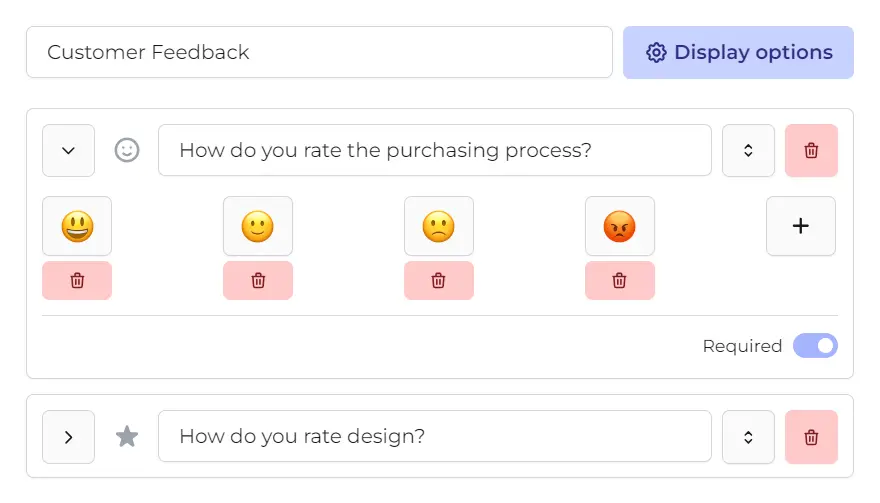
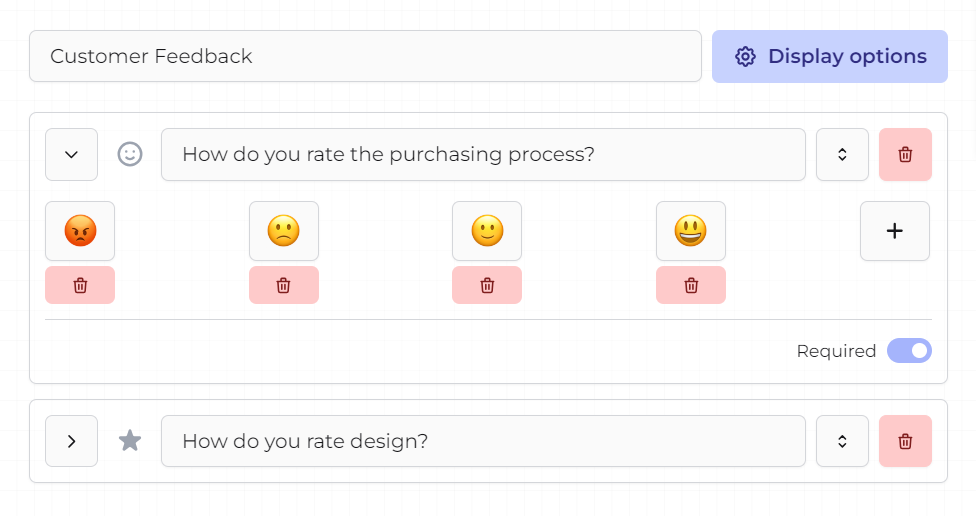
Feature/Account module preparation

diff --git a/src/layout/Navigation/Navigation.tsx b/src/layout/Navigation/Navigation.tsx
@@ -1,17 +1,18 @@
-import { CogIcon, LogoutIcon, MenuIcon } from '@heroicons/react/outline';
+import { LogoutIcon, MenuIcon, UserIcon } from '@heroicons/react/outline';
 import { Fragment, useState } from 'react';
 import { Menu, Transition } from '@headlessui/react';
-import Image from 'next/image';
 import Logo from 'layout/Logo/Logo';
-import ButtonLink from 'shared/components/ButtonLink/ButtonLink';
 import BurgerMenu from 'layout/BurgerMenu/BurgerMenu';
-import Button, { ButtonVariant } from 'shared/components/Button/Button';
-import AvatarIcon from '../../../public/images/avatar.svg';
+import Button, {
+  ButtonSize,
+  ButtonVariant,
+} from 'shared/components/Button/Button';
 import GithubCorner from 'layout/GithubCorner/GithubCorner';
 import { useApplicationContext } from 'features/application/context';
-import IconButtonLink from 'shared/components/IconButtonLink/IconButtonLink';
 import useTranslation from 'next-translate/useTranslation';
 import { signOut } from 'next-auth/react';
+import Avatar from 'shared/components/Avatar/Avatar';
+import ButtonLink from 'shared/components/ButtonLink/ButtonLink';
 
 function Navigation() {
   const { user, loading } = useApplicationContext();
@@ -57,23 +58,7 @@ function Navigation() {
                   <p className="ml-2 mr-4 hidden items-center truncate sm:block">
                     {user.name}
                   </p>
-                  {user.image ? (
-                    <Image
-                      src={user.image}
-                      alt="user photo"
-                      width={32}
-                      height={32}
-                      className="rounded-full"
-                    />
-                  ) : (
-                    <Image
-                      src={AvatarIcon}
-                      alt="user photo"
-                      width={32}
-                      height={32}
-                      className="rounded-full"
-                    />
-                  )}
+                  <Avatar src={user.image} />
                 </Menu.Button>
                 <Transition
                   as={Fragment}
@@ -84,24 +69,27 @@ function Navigation() {
                   leaveFrom="transform opacity-100 scale-100"
                   leaveTo="transform opacity-0 scale-95"
                 >
-                  <Menu.Items className="absolute right-0 mt-2 origin-top-right divide-y divide-zinc-100 rounded-md bg-white shadow-lg ring-1 ring-black ring-opacity-5 focus:outline-none">
-                    <div className="flex flex-col justify-end p-1">
-                      {process.env.NEXT_PUBLIC_REMOVE_ACCOUNT && (
+                  <Menu.Items className="absolute right-0 mt-2 min-w-[160px] origin-top-right divide-y divide-zinc-100 rounded-md bg-white shadow-lg ring-1 ring-black ring-opacity-5 focus:outline-none">
+                    <div className="p-1">
+                      {process.env.NEXT_PUBLIC_PROFILE_SETTINGS && (
                         <Menu.Item>
-                          <IconButtonLink
+                          <ButtonLink
                             variant={ButtonVariant.FLAT}
-                            href={'/settings'}
-                            icon={<CogIcon className="h-5 w-5" />}
+                            sizeType={ButtonSize.FULL}
+                            href={'/account'}
+                            icon={<UserIcon className="h-5 w-5" />}
                           >
-                            {t('navigation.settingsButton')}
-                          </IconButtonLink>
+                            <span className="ms-1">Account</span>
+                          </ButtonLink>
                         </Menu.Item>
                       )}
+
                       <Menu.Item>
                         <Button
                           onClick={logout}
+                          sizeType={ButtonSize.FULL}
                           variant={ButtonVariant.FLAT}
-                          className="w-40 text-red-600 hover:bg-red-100"
+                          className="text-red-600 hover:bg-red-100"
                           icon={<LogoutIcon className="h-5 w-5" />}
                         >
                           {t('navigation.signOutButton')}
@@ -132,28 +120,28 @@ function Navigation() {
           href={'/survey/create'}
           onClick={() => setIsOpen(!isOpen)}
           variant={ButtonVariant.FLAT}
-          className="mb-3 w-[95%] lg:w-auto"
+          className="mb-2 w-[95%] lg:w-auto"
         >
           {t('navigation.createSurveyButton')}
         </ButtonLink>
         <ButtonLink
           href={'/surveys'}
-          className="mb-3 w-[95%] lg:w-auto"
           onClick={() => setIsOpen(!isOpen)}
+          className="mb-2 w-[95%] lg:w-auto"
           variant={ButtonVariant.FLAT}
         >
           {t('navigation.mySurveysButton')}
         </ButtonLink>
-        {process.env.NEXT_PUBLIC_REMOVE_ACCOUNT && (
-          <IconButtonLink
-            className="mb-3 w-[95%] justify-center lg:w-auto"
-            href="/settings"
+        {process.env.NEXT_PUBLIC_PROFILE_SETTINGS && (
+          <Button
+            className="mb-2 w-[95%] justify-center lg:w-auto"
+            href={'/account'}
             onClick={() => setIsOpen(!isOpen)}
             variant={ButtonVariant.FLAT}
-            icon={<CogIcon className="h-5 w-5" />}
+            icon={<UserIcon className="h-5 w-5" />}
           >
-            {t('navigation.settingsButton')}
-          </IconButtonLink>
+            Account
+          </Button>
         )}
         <Button
           onClick={logout}

diff --git a/src/pages/account/index.tsx b/src/pages/account/index.tsx
@@ -1,0 +1,111 @@
+import Head from 'next/head';
+import { TrashIcon } from '@heroicons/react/outline';
+import withAnimation from 'shared/HOC/withAnimation';
+import Header from 'shared/components/Header/Header';
+import withProtectedRoute from 'shared/HOC/withProtectedRoute';
+
+import withFeatureToggles from 'shared/HOC/withFeatureToggles';
+import useTranslation from 'next-translate/useTranslation';
+import { useAccountManager } from 'features/account/accountManager';
+import Button, { ButtonVariant } from 'shared/components/Button/Button';
+import StyledDialog from 'shared/components/StyledDialog/StyledDialog';
+import Avatar from 'shared/components/Avatar/Avatar';
+import { formatDateDistance } from 'shared/utilities/convertTime';
+
+function AccountPage() {
+  const { t } = useTranslation('account');
+
+  const {
+    user,
+    isOpen,
+    openDeleteModal,
+    closeDeleteModal,
+    handleOnAccountDelete,
+    isRemoving,
+  } = useAccountManager();
+
+  return (
+    <>
+      <Head>
+        <title>{t('title')}</title>
+        <meta name="description" content={t('content')} />
+      </Head>
+
+      <Header>Your account</Header>
+
+      {user ? (
+        <div className="mt-4 flex w-full items-center justify-center gap-12 text-left">
+          <Avatar size={160} src={user.image} classNames="border" />
+
+          <div className="mb-4">
+            <h2 className="mb-2 text-2xl">{user?.name}</h2>
+            <p>{user?.email}</p>
+            <p>Account created: {formatDateDistance(user.createdAt)}</p>
+          </div>
+        </div>
+      ) : (
+        <></>
+      )}
+
+      {process.env.NEXT_PUBLIC_REMOVE_ACCOUNT && (
+        <>
+          <div className="flex flex-col items-center justify-center space-y-2">
+            <div className="flex w-full md:ml-2 md:w-auto">
+              <Button
+                variant={ButtonVariant.DANGER}
+                title={t('deleteAccountButtonTitle')}
+                className="ml-2 mt-2 w-full justify-center px-3 sm:mt-0 md:w-auto"
+                onClick={openDeleteModal}
+                icon={<TrashIcon className="h-5 w-5" />}
+              >
+                {t('deleteAccountButton')}
+              </Button>
+            </div>
+          </div>
+          <StyledDialog
+            isOpen={isOpen}
+            onClose={closeDeleteModal}
+            title={t('dialogTitle')}
+            content={
+              <>
+                <div className="mt-2">
+                  <p className="text-sm text-red-500">
+                    {t('dialogContentFirst')}&nbsp;
+                    <span className="font-bold">
+                      {t('dialogContentSecond')}
+                    </span>{' '}
+                    {t('dialogContentThird')}
+                  </p>
+                </div>
+                <div className="mt-6 flex justify-between space-x-3">
+                  <Button
+                    variant={ButtonVariant.SECONDARY}
+                    onClick={closeDeleteModal}
+                    className="uppercase"
+                    disabled={isRemoving}
+                  >
+                    {t('buttonCancle')}
+                  </Button>
+                  <Button
+                    variant={ButtonVariant.DANGER}
+                    onClick={handleOnAccountDelete}
+                    icon={<TrashIcon className="h-5 w-5" />}
+                    className="uppercase"
+                    isLoading={isRemoving}
+                  >
+                    {t('buttonConfirm')}
+                  </Button>
+                </div>
+              </>
+            }
+          />
+        </>
+      )}
+    </>
+  );
+}
+
+export default withFeatureToggles(
+  withProtectedRoute(withAnimation(AccountPage)),
+  [process.env.NEXT_PUBLIC_PROFILE_SETTINGS]
+);

diff --git a/src/features/surveys/components/QuestionBlocks/QuestionBlockWrapper/QuestionBlockWrapper.tsx b/src/features/surveys/components/QuestionBlocks/QuestionBlockWrapper/QuestionBlockWrapper.tsx
@@ -79,7 +79,7 @@ export default function QuestionBlockWrapper({
         <div className="flex w-full items-start gap-2">
           <button
             onClick={onExpand}
-            className="cursor-pointer rounded-md border border-opacity-100 bg-zinc-50 p-[13px]"
+            className="h-[42px] cursor-pointer rounded-md border border-opacity-100 bg-zinc-50 p-[13px]"
           >
             <ChevronDownIcon
               className={clsx(
@@ -99,7 +99,7 @@ export default function QuestionBlockWrapper({
               onInput={handleQuestionChange}
               value={questionTitle}
               error={questionError()}
-              className="mt-0"
+              className="mt-0 h-[42px]"
               maxLength={MAX_QUESTION_LENGTH}
               data-test-id={`question-input-${index}`}
             />
@@ -115,7 +115,7 @@ export default function QuestionBlockWrapper({
             <div className="flex gap-2">
               {isDraggingPossible && (
                 <div
-                  className="cursor-pointer rounded-md border  bg-zinc-50 p-[13px] shadow-sm hover:scale-95"
+                  className="h-[42px] cursor-pointer rounded-md border bg-zinc-50 p-[13px] shadow-sm hover:scale-95"
                   {...dragHandleProps}
                 >
                   <SelectorIcon className="w-[15px]" />
@@ -126,7 +126,7 @@ export default function QuestionBlockWrapper({
                   onClick={removeQuestion}
                   disabled={isEditMode}
                   data-test-id={`remove-question-${index}`}
-                  className="cursor-pointer rounded-md border border-red-200 bg-red-200 p-[13px] shadow-sm hover:scale-95 disabled:cursor-not-allowed disabled:opacity-40 disabled:hover:scale-100"
+                  className="h-[42px] cursor-pointer rounded-md border border-red-200 bg-red-200 p-[13px] shadow-sm hover:scale-95 disabled:cursor-not-allowed disabled:opacity-40 disabled:hover:scale-100"
                 >
                   <TrashIcon className="w-[15px] text-red-900" />
                 </button>

diff --git a/src/shared/components/ButtonLink/ButtonLink.tsx b/src/shared/components/ButtonLink/ButtonLink.tsx
@@ -23,6 +23,7 @@ const ButtonLink = ({
   variant = ButtonLinkVariant.SECONDARY,
   sizeType = ButtonLinkSize.DEFAULT,
   target,
+  icon,
   ...props
 }: PropsWithChildren<ButtonLinkProps>) => (
   <Link
@@ -30,8 +31,14 @@ const ButtonLink = ({
     target={target}
     {...props}
     scroll={false}
-    className={clsx('btn', variant, sizeType, 'hover:no-underline', className)}
+    className={clsx(
+      'btn relative flex items-center justify-center',
+      variant,
+      sizeType,
+      className
+    )}
   >
+    {!!icon && <div className={children ? 'pr-1' : 'px-1'}>{icon}</div>}
     {children}
   </Link>
 );

diff --git a/src/shared/components/Avatar/Avatar.tsx b/src/shared/components/Avatar/Avatar.tsx
@@ -1,0 +1,22 @@
+import React from 'react';
+import AvatarIcon from '/public/images/avatar.svg';
+import Image from 'next/image';
+import clsx from 'clsx';
+
+interface AvatarProps {
+  src?: string | null;
+  size?: number;
+  classNames?: string;
+}
+
+export default function Avatar({ src, size = 32, classNames }: AvatarProps) {
+  return (
+    <Image
+      src={src ? src : AvatarIcon}
+      alt="user photo"
+      width={size}
+      height={size}
+      className={clsx('rounded-full bg-white', classNames)}
+    />
+  );
+}

diff --git a/src/shared/constants/surveysConfig.ts b/src/shared/constants/surveysConfig.ts
@@ -18,10 +18,10 @@ export const defaultQuestions: Question[] = [
     id: v4(),
     title: '',
     options: [
-      ':smiley:',
-      ':slightly_smiling_face:',
-      ':slightly_frowning_face:',
       ':rage:',
+      ':slightly_frowning_face:',
+      ':slightly_smiling_face:',
+      ':smiley:',
     ],
     type: QuestionType.EMOJI,
     isRequired: true,

diff --git a/src/features/account/accountManager.ts b/src/features/account/accountManager.ts
@@ -1,7 +1,7 @@
 import { useState } from 'react';
 import { useApplicationContext } from 'features/application/context';
 
-export const useSettingsManager = () => {
+export const useAccountManager = () => {
   const { error, user } = useApplicationContext();
   const [isOpen, setIsOpen] = useState(false);
   const [isRemoving] = useState(false);

diff --git a/src/features/surveys/managers/surveyAnswerManager.ts b/src/features/surveys/managers/surveyAnswerManager.ts
@@ -66,7 +66,7 @@ export const useSurveyAnswerManager = (initialData: SurveyWithQuestions) => {
       setFormData(initialData);
     }
     if (
-      process.env.NEXT_PUBLIC_BLOCK_MULTIPLE_ANSWERS &&
+      !process.env.NEXT_PUBLIC_ALLOW_MULTIPLE_ANSWERS &&
       localStorageValue.includes(surveyId) &&
       !isAnswering
     ) {

diff --git a/src/pages/surveys/index.tsx b/src/pages/surveys/index.tsx
@@ -89,6 +89,7 @@ function SurveyListPage({
                 className="mt-2 w-[160px] -translate-x-1"
                 src={NoSurveys}
                 alt="no surveys"
+                height={165}
               />
               <p className="my-6">{t('noSurveys')}</p>
               <ButtonLink

diff --git a/src/pages/survey/answer/[surveyId]/index.tsx b/src/pages/survey/answer/[surveyId]/index.tsx
@@ -160,6 +160,7 @@ function SurveyResultsPage({
             <Image
               className="mx-auto mt-12 w-[140px]"
               src={NoAnswers}
+              height={160}
               alt="no answers"
             />
             <div className="my-6">{t('noAnswers')}</div>

diff --git a/i18n.js b/i18n.js
@@ -9,11 +9,11 @@ module.exports = {
       '404',
       'login',
       'signup',
-      'settings',
+      'account',
       'surveys',
       'surveyAnswer',
       'survey',
-      'thankyou'
+      'thankyou',
     ],
   },
   loadLocaleFrom: (lang, ns) =>

diff --git a/src/features/application/components/MainSection.tsx b/src/features/application/components/MainSection.tsx
@@ -37,7 +37,7 @@ export default function MainSection({
         alt={alt}
         src={image}
         width={500}
-        height={215}
+        height={265}
         priority
         className="rounded-md border shadow-sm"
       />
